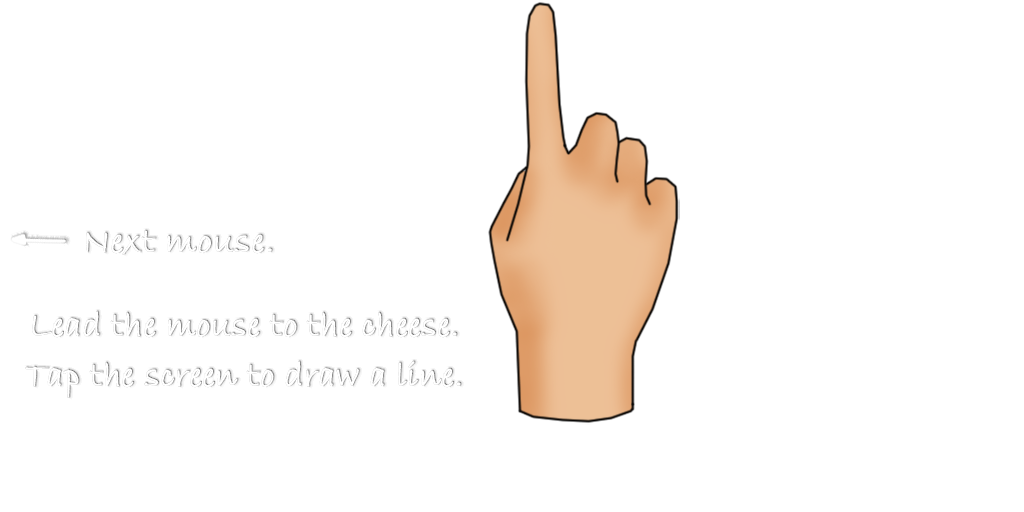
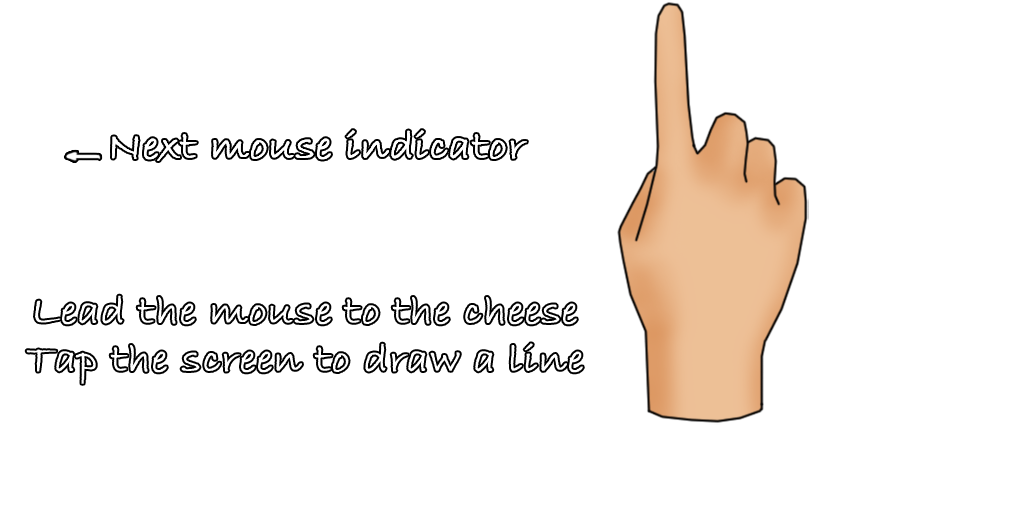
adjusted tutorial

Changed region(s): [[0.0312, 0.0, 0.8125, 0.8438], [0.0938, 0.4375, 0.25, 0.5], [0.0312, 0.4375, 0.0625, 0.4688]]

diff --git a/core/src/cheese/squeeze/gameworld/GameRenderer.java b/core/src/cheese/squeeze/gameworld/GameRenderer.java
@@ -376,10 +376,10 @@ public class GameRenderer {
     	Sprite tutorial = AssetLoader.tutorial;
     	Sprite tutorial2 = AssetLoader.tutorial2;
     	Sprite hand = AssetLoader.hand;
-    	tutorial.setSize( width/3+10, (height/8));
-    	tutorial.setPosition((width/2)+1, (height/2)-40);
-    	tutorial2.setSize( width/3+10, (height/8));
-    	tutorial2.setPosition((width/2)-tutorial2.getWidth(), -2);
+    	tutorial.setSize( width-20, (height/5));
+    	tutorial.setPosition(10, (height/2)+20);
+    	tutorial2.setSize( width-20, (height/5));
+    	tutorial2.setPosition(5, -5);
     	
     	//hand.setOrigin(hand.getHeight()*hand.getScaleX(), hand.getScaleY()*hand.getWidth()/5);
     	hand.setSize(width/4, height/3);
